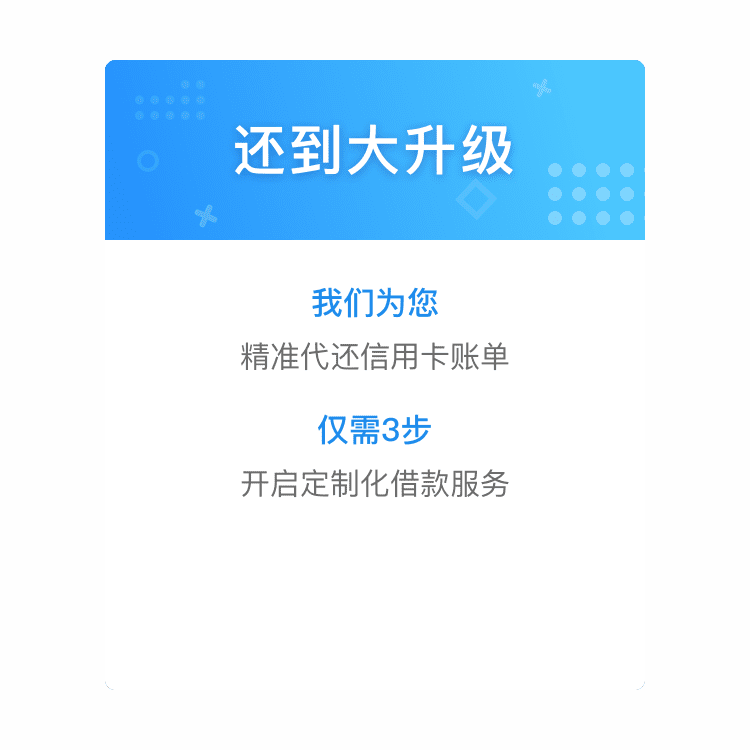
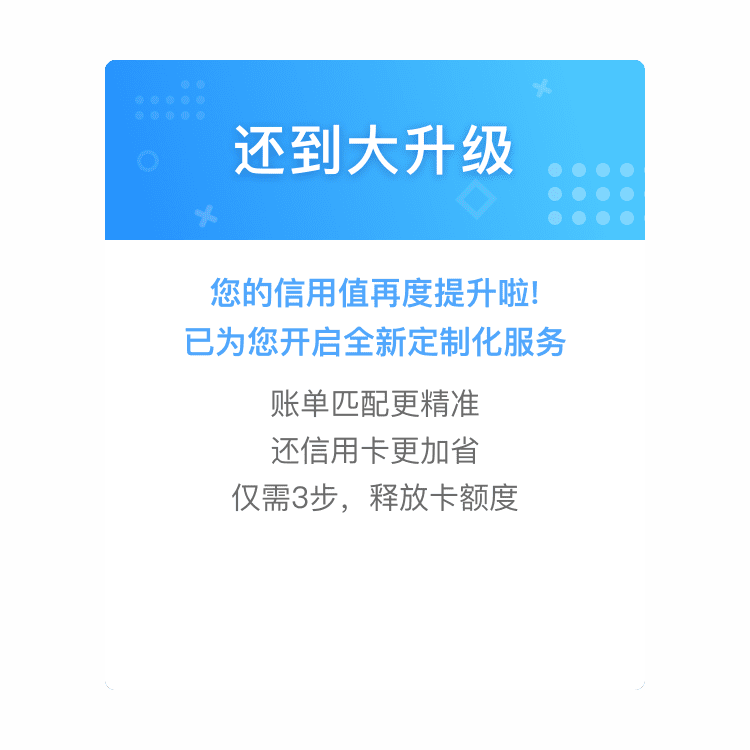
修改样式以及埋点

Changed region(s): [[0.2453, 0.368, 0.7667, 0.4907], [0.3067, 0.5213, 0.7053, 0.7053]]

diff --git a/src/pages/order/repayment_succ_page/index.js b/src/pages/order/repayment_succ_page/index.js
@@ -30,12 +30,13 @@ export default class repayment_succ_page extends PureComponent {
   }
 
   // 返回首页
-  backHome = () => {
-    buriedPointEvent(order.returnHome);
+  backHome = (type) => {
+    buriedPointEvent(type);
     this.props.history.push('/home/home')
   }
   // 关闭弹窗
   closeModal = () => {
+    buriedPointEvent(order.closeModal);
     this.setState({
       isShowTipsModal: false
     })
@@ -54,14 +55,14 @@ export default class repayment_succ_page extends PureComponent {
           <p>借款期限：{this.state.orderSuccess.perdLth}{this.state.orderSuccess.perdUnit === 'M' ? '个月' : '天'}</p>
           <p>申请借款日期：{this.state.orderSuccess.billRegDt}</p>
         </div>
-        <ButtonCustom onClick={this.backHome} className={styles.back_btn}>返回首页</ButtonCustom>
+        <ButtonCustom onClick={() => {this.backHome(order.returnHome)}} className={styles.back_btn}>返回首页</ButtonCustom>
         <Modal
           wrapClassName={styles.success_modal_warp}
           visible={isShowTipsModal}
           transparent
         >
           <div className={styles.modal_tip_content}>
-            <ButtonCustom onClick={this.backHome} className={styles.modal_btn}>立即开启</ButtonCustom>
+            <ButtonCustom onClick={() => {this.backHome(order.openNow)}}  className={styles.modal_btn}>立即开启</ButtonCustom>
           </div>
           <i className={styles.close_btn} onClick={this.closeModal} />
         </Modal>

diff --git a/src/utils/analytinsType.js b/src/utils/analytinsType.js
@@ -56,7 +56,9 @@ const mine = {
 const order = {
 	repayment: `${prefix}_ORDER_DETAILS_REPAYMENT`, // 账单详情页-主动还款按钮
 	repaymentFirst: `${prefix}_ORDER_DETAILS_REPAYMENT_FIRST`, // 账单详情页-付款详情-立即还款按钮
-	returnHome: `${prefix}_ORDER_BACK_HOME` // 还款完成页-返回首页按钮
+	returnHome: `${prefix}_ORDER_BACK_HOME`, // 还款完成页-返回首页按钮
+	openNow: `${prefix}_ORDER_OPEN_NOW`, // 还款完成页-弹框里立即开启按钮
+	closeModal: `${prefix}_ORDER_CLOSE_MODAL`, // 还款完成页-弹框里关闭按钮
 };
 
 const membership = {
